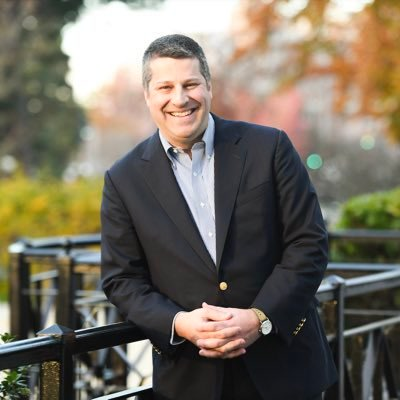
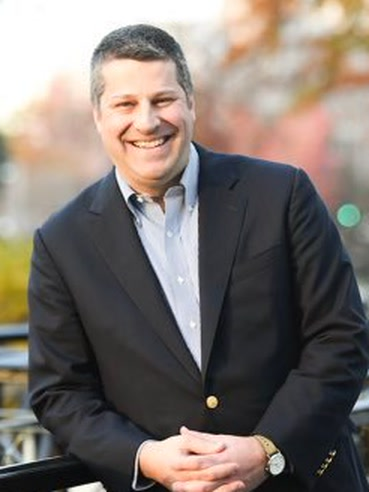
Crop the portrait to 3:4 so the face reads at masthead size

diff --git a/docs/index.html b/docs/index.html
@@ -40,8 +40,8 @@
   /* masthead */
   .mast { display:flex; gap:28px; align-items:flex-start; flex-wrap:wrap;
           border-bottom:2px solid var(--ink); padding-bottom:30px; }
-  /* a square source image, shown square with softened corners */
-  .portrait { width:148px; aspect-ratio:1/1; border-radius:10px; object-fit:cover;
+  /* a 3:4 crop of the portrait, so the face reads at this size */
+  .portrait { width:156px; aspect-ratio:3/4; border-radius:10px; object-fit:cover;
               flex:0 0 auto; background:var(--accent-bg); max-width:100%; }
   .mast-body { flex:1 1 320px; min-width:0; }
   h1 { font-family:var(--font-display); font-weight:600; font-size:clamp(34px,6vw,52px);

diff --git a/build.py b/build.py
@@ -96,8 +96,8 @@ TEMPLATE = """<title>__NAME__</title>
   /* masthead */
   .mast { display:flex; gap:28px; align-items:flex-start; flex-wrap:wrap;
           border-bottom:2px solid var(--ink); padding-bottom:30px; }
-  /* a square source image, shown square with softened corners */
-  .portrait { width:148px; aspect-ratio:1/1; border-radius:10px; object-fit:cover;
+  /* a 3:4 crop of the portrait, so the face reads at this size */
+  .portrait { width:156px; aspect-ratio:3/4; border-radius:10px; object-fit:cover;
               flex:0 0 auto; background:var(--accent-bg); max-width:100%; }
   .mast-body { flex:1 1 320px; min-width:0; }
   h1 { font-family:var(--font-display); font-weight:600; font-size:clamp(34px,6vw,52px);
